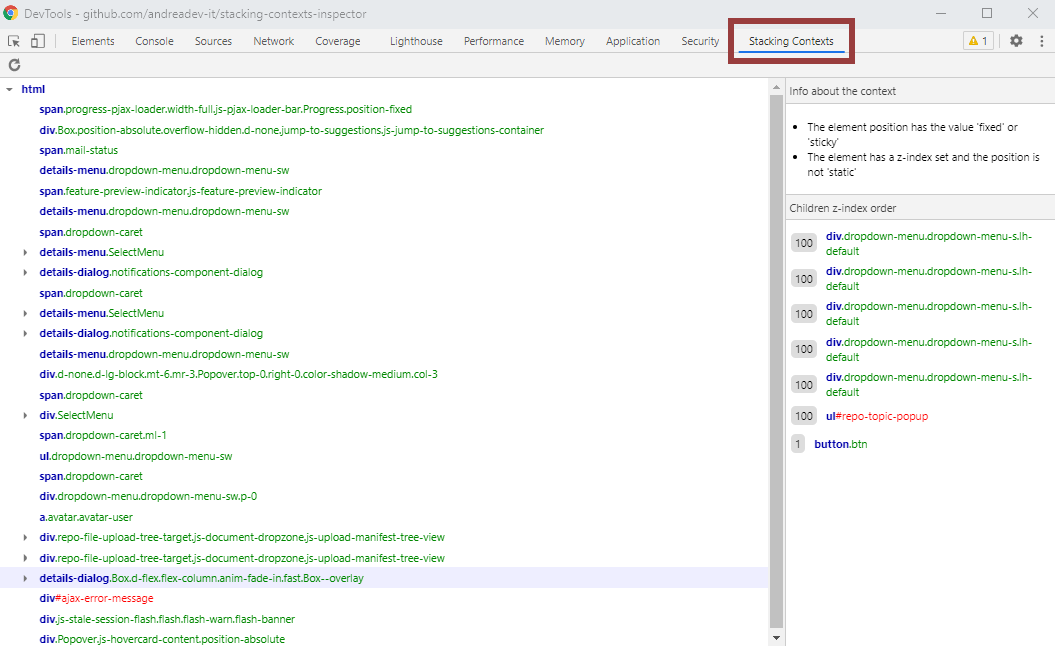
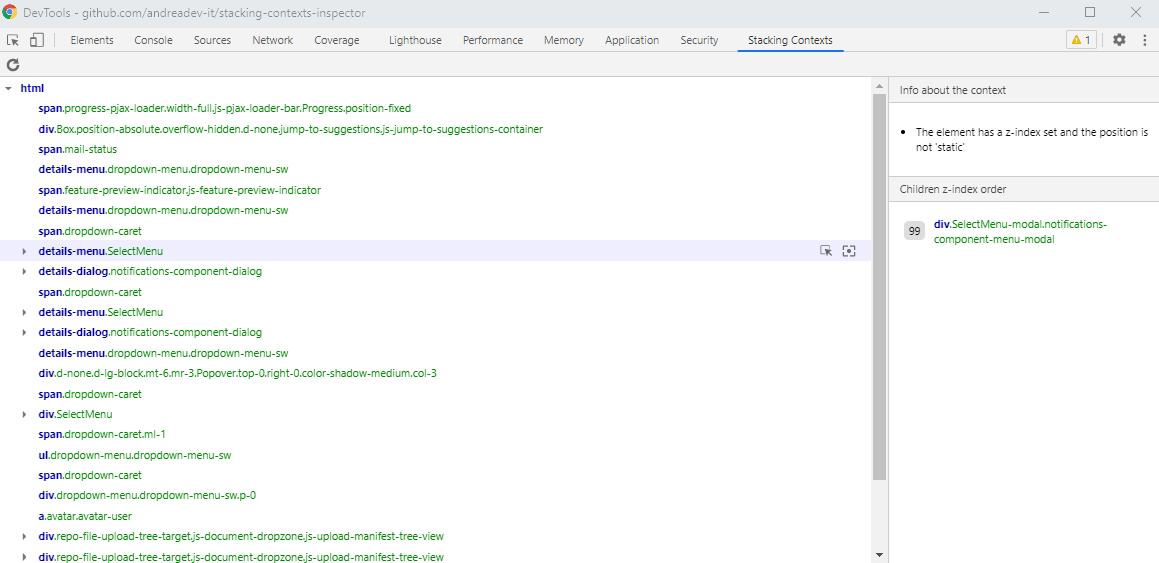
Updated for the latest version

Changed region(s): [[0.0, 0.0, 1.0, 1.0], [0.0, 0.0, 0.3336, 0.0302]]

diff --git a/README.md b/README.md
@@ -5,7 +5,7 @@ This extension will add a **new panel** to the devtools and a **new sidebar** on
 
 ### Known bugs and things to keep in mind
 * This extension work by analysing the page at a specific point in time (when you open the panel or the sidebar). It won't automatically react to changes in the page. However, you can use the reload button on the top of the stacking context panel to re-analyse the page at any time.
-* Currently, when you install this extension you won't be able to inspect contexts within pages that were already open before the installation. You have to reload them to see their stacking contexts.
+* **Fixed in v.1.1.0:** Currently, when you install this extension you won't be able to inspect contexts within pages that were already open before the installation. You have to reload them to see their stacking contexts.
 
 If you find any other issue or have some feature request, feel free to use the [Issues section](https://github.com/andreadev-it/stacking-contexts-inspector/issues) here on github to share them.
 
@@ -16,9 +16,11 @@ This panel will show you a tree-like representation of all the stacking contexts
 
 When hovering over a context, the DOM element will be highlighted in the page. If you don't see any highlight, it might be because the element is not visible, or it's outside of the viewport.
 
-When you right-click on a context (everywhere within the extension), you get a menu with two actions: **Inspect** and **Scroll into view**.
+When you hover over a context, or have a specific context selected (everywhere within the extension), two buttons will appear on the right of the context: **Inspect** and **Scroll into view**.
 
-**Inspect** will select the DOM element in the elements panel. *Scroll into view* will scroll the page in order to show the DOM element related to the context.
+![Screenshot of a context with the two buttons visible](docs/context-actions.png)
+
+**Inspect** will select the DOM element in the elements panel. **Scroll into view** will scroll the page in order to show the DOM element related to the context.
 
 If you click on a context, it will be selected and some in-depth information will be shown on the sidepane.
 
@@ -27,7 +29,7 @@ The sidepane shows informations related to the stacking context that is currentl
 
 In the first section, you can see why this DOM element is creating a new stacking context. There might be multiple reasons for this, and all of them will be shown as an unordered list in this section.
 
-In the second section, you can find a list of all the stacking contexts that are children of the selected context. They'll be ordered from the one which is visible on top (higher z-index) to the one that will show behind everything else (lower z-index). It will also show all the elements that have no z-index applied, but have a position of "relative" or "absolute", since this values will slightly alter the order the elements are printed (might be changed in the future). If you right click on one of these stacking contexts, you will have the same options for the contexts shown in the tree view: you can inspect the related DOM element or scroll the viewport to show it.
+In the second section, you can find a list of all the stacking contexts that are children of the selected context. They'll be ordered from the one which is visible on top (higher z-index) to the one that will show behind everything else (lower z-index). It will also show all the elements that have no z-index applied, but have a position of "relative" or "absolute", since this values will slightly alter the order the elements are printed (might be changed in the future). When you hover over the contexts in this view, two buttons will appear on the right (the same as in the tree view). They allow you to inspect the related DOM element or scroll the viewport to show it.
 
 ## The Stacking Contexts sidebar in the Elements panel
 When you install this extension, a new sidebar will be added to the right of the elements panel, where you can also find the "Styles", "Computed", "Layout" and other sidebars. It might not be immediatly visible, in that case you can make the sidebar larger to show all options, or click on the "»" button in the top-right to show all the hidden sidebars names.
